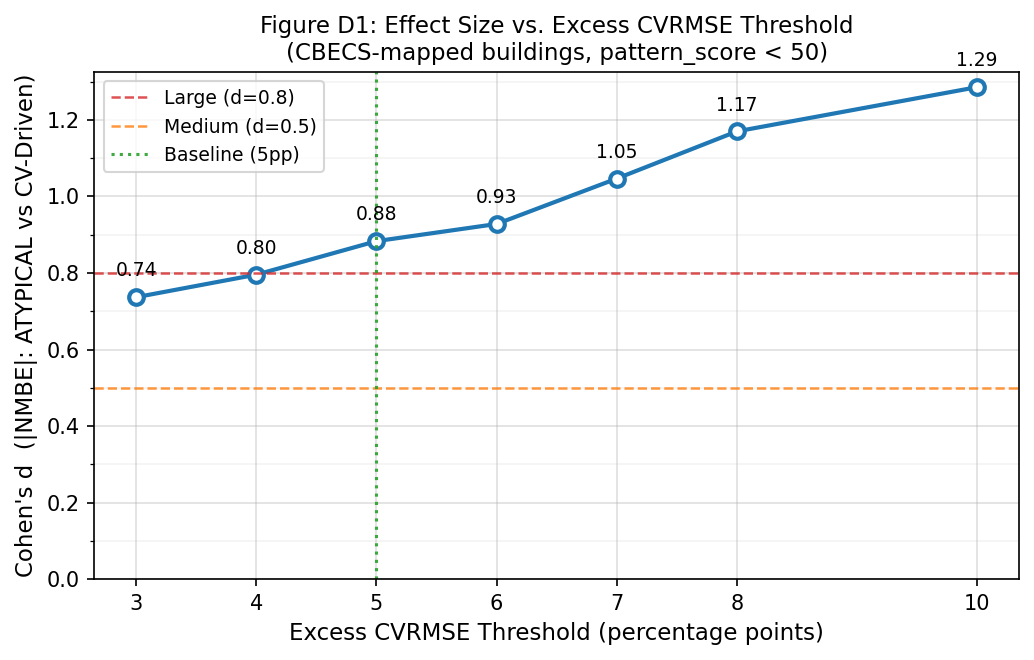
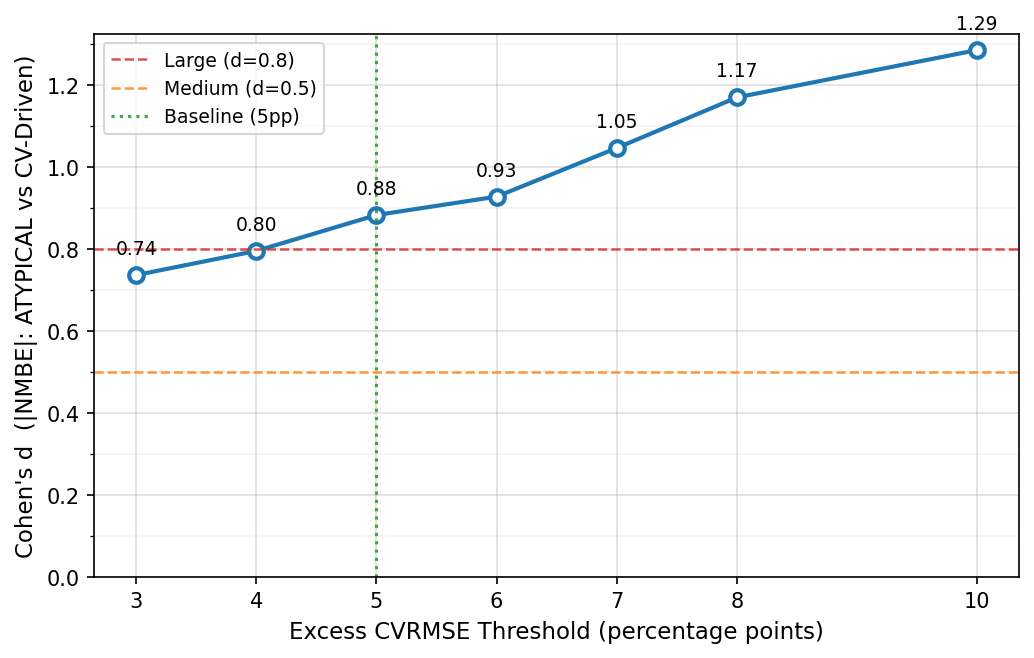
Apply MDPI proofreading fixes to Figure 2 and Figure A1
Figure 2 (CV-CVRMSE regression scatter):
- Replace ASCII asterisk (*) with multiplication sign (×) in regression label
  for proper typographic presentation.

Figure A1 (Cohen's d threshold sensitivity, formerly Figure D1):
- Remove "Figure D1: ..." title embedded in image.
- MDPI policy requires figure captions/numbers to appear only in the manuscript
  text, not inside the figure image itself.

Both figures regenerated. Figure 2 source (fig2_cv_cvrmse.png) is git-ignored
(figures/ folder); pull and re-run scripts/03_generate_figures.py to materialize.

diff --git a/scripts/07_appendix_d_e_analysis.py b/scripts/07_appendix_d_e_analysis.py
@@ -412,8 +412,7 @@ def plot_cohens_d(df_1a: pd.DataFrame, out_dir: str):
 
     ax.set_xlabel("Excess CVRMSE Threshold (percentage points)", fontsize=11)
     ax.set_ylabel("Cohen's d  (|NMBE|: ATYPICAL vs CV-Driven)", fontsize=11)
-    ax.set_title("Figure D1: Effect Size vs. Excess CVRMSE Threshold\n"
-                 "(CBECS-mapped buildings, pattern_score < 50)", fontsize=11)
+    # MDPI policy: no figure number/caption embedded in image
     ax.legend(fontsize=9)
     ax.set_xticks(thresholds)
     ax.yaxis.set_minor_locator(mticker.MultipleLocator(0.1))

diff --git a/scripts/03_generate_figures.py b/scripts/03_generate_figures.py
@@ -276,7 +276,7 @@ def fig3_cv_cvrmse_regression(df, cbecs):
     cv_range = np.linspace(0, df['cv'].max() * 1.05, 100)
     expected = (slope * cv_range + intercept) * 100
     ax.plot(cv_range, expected, 'k-', linewidth=1.5,
-            label=f'Regression: CVRMSE = {slope:.3f}*CV + {intercept:.3f}\n(R$^2$ = {r_val**2:.3f})')
+            label=f'Regression: CVRMSE = {slope:.3f}×CV + {intercept:.3f}\n(R$^2$ = {r_val**2:.3f})')
 
     # 5pp boundary (expected + 5pp)
     boundary = expected + 5
